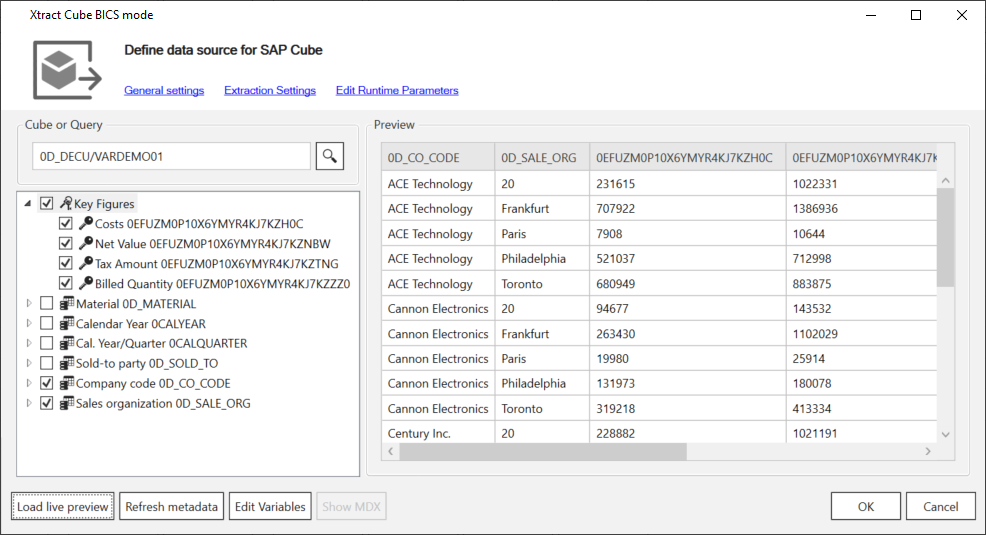
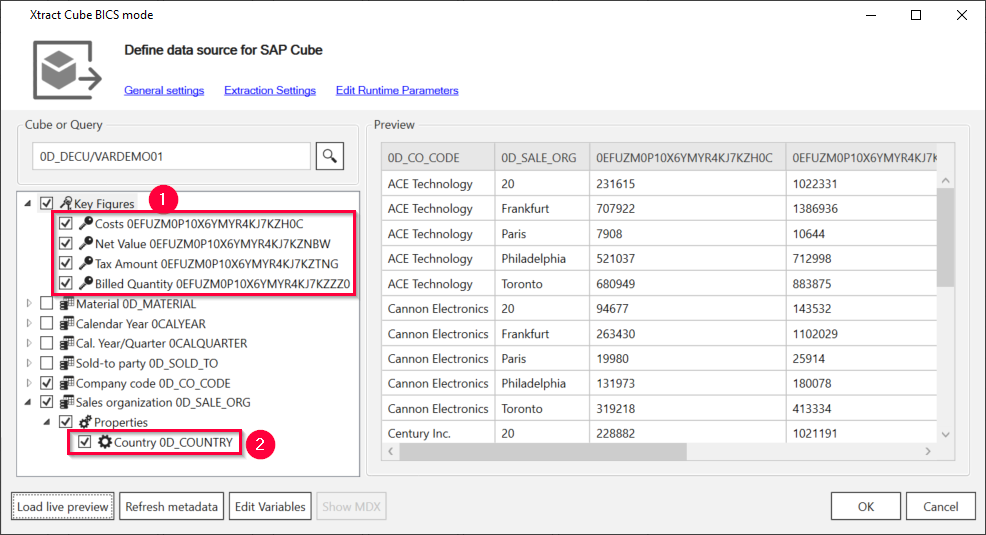
Define BW Cube Extraction

Changed region(s): [[0.0304, 0.329, 0.3651, 0.5682], [0.0304, 0.7178, 0.3043, 0.8673]]

diff --git a/_includes/_content/de/bw-infocubes-und-bex-queries/eine-bw-cube-quelle-definieren.md b/_includes/_content/de/bw-infocubes-und-bex-queries/eine-bw-cube-quelle-definieren.md
@@ -1,34 +1,53 @@
-Die Cube Datenquelle wurde entwickelt, um Daten aus SAP BW InfoCubes oder Queries (auch bekannt als BEx-Queries) abzuziehen.<br>
-Nach der Anlage einer BW Cube-Datenquelle erscheint der Dialog leer.
+Der folgende Abschnitt beschreibt die Anwendung der BAPI Komponente.<br>
 
-![BWCube-Extraction-01](/img/content/BWCube-Extraction-01.png){:class="img-responsive"}
+Die Komponente BW Cube kann verwendet werden, um Daten aus BW InfoProvidern (z.B. Cubes) direkt oder aus BW Queries zu extrahieren. Die BW Queries können in diesem Fall auf allen möglichen InfoProvidern basieren. <br>
+Ein üblicher Ansatz für die Extraktion besteht darin, eine Abfrage zu erstellen, die Ihren Geschäftsanforderungen entspricht.
 
-Um ihn mit Leben zu füllen, klicken Sie bitte auf den Fernglas-Knopf, um einen Cube oder eine Query zu suchen.
+![Bw-Cube-Data-Source](/img/content/Bw-Cube-Data-Source.png){:class="img-responsive"}
 
-Sie können mit Wildcards (also * ) entweder in den verfügbaren InfoCubes oder in den verfügbaren QueryCubes suchen. Sobald Sie den richtigen Cube gefunden haben, markieren Sie ihn und bestätigen Sie mit *OK*.
+### Nach BW Cube oder Query suchen
+
+1. Im Hauptfenster der Komponente klicken Sie auf den **[Search]** Button (Lupensymbol). Das Fenster “Cube or Query Lookup” wird geöffnet.
+![Look-Up-Cube](/img/content/Look-Up-Cube.png){:class="img-responsive"}
+2. Geben Sie im Feld **Name** (1) den Namen des Query oder des BW Cubes / InfoProviders ein. Die Verwendung von Wildcards (*) wird unterstützt. 
+3. Definieren Sie den **Extractor** und **Type** des Objekts (2).
+4. Klicken Sie auf **[Search]** (Lupensymbol) (3) und wählen Sie das Objekt aus der Liste (4) aus.
+5. Klicken Sie auf **[OK]** (5) zum Bestätigen.
+
+{: .box-warning }
+**Warning! Invalid action**<br>
+Beachten Sie, dass für jede Query, die in dieser Liste erscheinen soll, das Feld *Externen Zugriff auf diese Query zulassen* im BEx Query Designer oder im BW Modeling Tool angehakt sein muss. 
+Mehr Details finden Sie im Knowledgebase-Artikel [Allow external access to BW Queries](https://kb.theobald-software.com/general/allow-external-access-to-bw-queries)..
+ 
+### Auswählen von Messwerten ( Key Figures), Abmessungen und Eigenschaften
+Wenn ein Objekt ausgewählt ist, wird im Hauptfenster der Komponente auf der linken Seite eine Baumstruktur angezeigt. Die Baumstruktur stellt die Metadaten der Query (oder des InfoProviders) dar. <br>
+![Cube-Details](/img/content/XU-Tableau-BExQuery.png){:class="img-responsive"}
+Das erste Verzeichnis enthält alle Messwerte (Kennzahlen) (1). Die folgenden Verzeichnisse entsprechen den Dimensionen und enthalten oft zusätzliche Dimensionseigenschaften (2). <br>
+
+1. Wählen Sie die Kennzahlen, Dimensionen und Eigenschaften für eine Extraktion.
+2. Klicken Sie innerhalb des Kennzahlenverzeichnisses auf den Pfeil, um die verfügbaren Einheiten zu öffnen. Wählen Sie die Einheiten aus, falls erforderlich.
+3. Klicken Sie auf **[Load live preview]** um die Ausgabe mit Daten aus dem BW anzuzeigen. Wenn eine Einheit ausgewählt ist (z.B. Währung), wird das entsprechende Feld in der Echtzeitvorschau angezeigt.
 
 {: .box-note }
-**Hinweis:** Beachten Sie, dass für jede Query, die in dieser Liste erscheinen soll, das Feld *Externen Zugriff  auf diese Query zulassen* im BEx Query Designer oder im BW Modeling Tool angehakt sein muss. Mehr Details finden Sie im Knowledgebase-Artikel [Allow external access to BW Queries](https://kb.theobald-software.com/general/allow-external-access-to-bw-queries).
+**Hinweis:** Für jede ausgewählte Dimension oder Eigenschaft wird im Ergebnis eine Kennzahl und eine Einheit angezeigt. 
 
-![Look-Up-Cube](/img/content/Look-Up-Cube.png){:class="img-responsive"}
+### Einstellen eines Dimensionsfilters 
+1. Klicken Sie mit der rechten Maustaste auf eine Dimension. Die Schaltfläche **[Edit Filter]** erscheint.
+![Query Filter](/img/content/cube-query-filter.png){:class="img-responsive"}
+2. Klicken Sie **[Edit Filter]**. Das Fenster "Member Filter" wird geöffnet. Sie können die *Einzelnen Werte (Single Values)* (linke Seite des Fensters) setzen und / oder *Wertebereiche (Value Ranges)* (rechte Seite des Fensters) definieren.
+![Query Filter Define](/img/content/xfa/xfa_cube-query-filter-def.png){:class="img-responsive"}
+3. Wählen Sie einen einzelnen Wert (3) oder klicken Sie auf **[Add]** (4) um Wertebereiche hinzuzufügen. 
+4. Definieren Sie die Werte für die Filterung. Dynamischer Parameter werden unterstützt, siehe [Laufzeitparameter](./edit-runtime-parameters). Löschen Sie ggf. die Filter (Mülltonnensymbol).
+5. Klicken Sie auf **[OK]** zum Bestätigen. Das Fenster "Member Filter" wird geschlossen.
 
-Nachdem ein Cube gewählt wurde, finden Sie auf der linken Seite hierarchisch angeordnet die Kennzahlen (Ordner Key Figures), die Dimensionen und deren Eigenschaften (jeweils im Unterordner Properties jeder Dimension). Um einzelne Parameter für die Extraktion zu wählen, ziehen Sie den gewünschten Knoten per Drag & Drop von der Baumanzeige in die Tabelle rechts. 
-
-Bitte beachten Sie, dass die jeweilige Dimension automatisch mit selektiert wird, auch wenn Sie nur eine einzelne Eigenschaft hinüberziehen.
-
-![Cube-Details](/img/content/XU-Tableau-BExQuery.png){:class="img-responsive"}
-
-Sobald sie die Definition der gewünschten Ergebnismenge abgeschlossen haben, können Sie die Ausgabe der Extraktion mit Hilfe des Run-Buttons im Browser testen.
-
-Um alle Eigenschaften einer Dimension oder alle Kennzahlen zu selektieren, klicken Sie mit der rechten Maustaste auf den entsprechenden Knoten und wählen Sie die Option *Select for Output*.
-
-Ein Preview im Browser liefert das folgende Ergebnis.
-
-![Cube-Browser-Output](/img/content/Cube-Browser-Output.png){:class="img-responsive"}
-
-Der interessierte Nutzer kann auch den Show MDX-Link im oberen Bereich anklicken. Dann wird das jeweilige, automatisch generierte MDX-Statement angezeigt. Dies dient aber nur zur Information.
+Wenn ein Filter definiert ist, erscheint ein Filtersymbol in der Metadatenstruktur.
 
 
-![Cube-Extraction-Mdx-Statement](/img/content/Cube-Extraction-Mdx-Statement.png){:class="img-responsive"}
+{: .box-note }
+**Hinweis:** BW-Queries haben oft definierte Variablen zum Erstellen von Filteroptionen. Um Variablen zu definieren, siehe [Query Variablen](./variablen).
+ 
 
-
+****
+#### Weiterführende Links
+- [Allow external access to BW Queries](https://kb.theobald-software.com/general/allow-external-access-to-bw-queries).
+- [Query Variablen](./variablen)

diff --git a/_includes/_content/en/bw-infocubes-and-bex-queries/bw-cube-extraction-define.md b/_includes/_content/en/bw-infocubes-and-bex-queries/bw-cube-extraction-define.md
@@ -1,33 +1,53 @@
-The Xtract BW Cube data source component was developed to extract data from SAP BW InfoCubes and QueryCubes (also known as BEx Queries).
 
-After the definition of a BW Cube data source the following screen pops up:
+The following section shows how to use the BW Cube Component. <br>
 
+The BW Cube component can be used to extract data from BW InfoProviders (e.g., Cubes) directly or from BW Queries. The BW Queries, in this case, can be based on all possible InfoProviders.
+A common approach for this the extraction is to build the query that meets the business requirements.
 ![Bw-Cube-Data-Source](/img/content/Bw-Cube-Data-Source.png){:class="img-responsive"}
 
-Click the binocular button to open up the search dialog as shown below.
+### Look Up a BW Cube or Query
 
-You can also use wildcards ( * ) to search for InfoCubes and QueryCubes. Select the cube you want to work with and click OK.
+1. In the main window of the component click the **[Search]** button (magnifying glass symbol). The window “Cube and Query Lookup” opens.
+![Look-Up-Cube](/img/content/Look-Up-Cube.png){:class="img-responsive"}
+2. In the field Name (1) enter a name of a Query or a BW Cube / InfoProvider. Use wildcards (*), if needed.
+3. Define the **Extractor** and **Type** of the object (2).
+4. Click **[Search]** (magnifying glass symbol) (3) and select the object of your choice from the displayed list (4).
+5. Click **[OK]** (5) to confirm.
 
 {: .box-warning }
 **Warning! Invalid action**<br>
  A BW Query must have the attribute *Allow External Access to this Query* switched on in the BEx Query Designer or the BW Modeling Tool to appear in the list.
+ For additional details see the knowledge base article [Allow external access to BW Queries](https://kb.theobald-software.com/general/allow-external-access-to-bw-queries)..
  
- For additional details see the knowledge base article [Allow external access to BW Queries](https://kb.theobald-software.com/general/allow-external-access-to-bw-queries).
-
-![Look-Up-Cube](/img/content/Look-Up-Cube.png){:class="img-responsive"}
-
-After having chosen a cube, you will find all dimensions, key figures and dimension properties on the left-hand side of the editor. These parameters are presented hierarchically in a tree view.
-
-To extract one or more of these cube elements, drag and drop them to the grid on the right-hand side. If you are choosing the property of a dimension that is not yet contained in the result set, the dimension will be added automatically as well.
-
+### Selecting Measure (Key Figures), Dimensions and Properties
+When an object is selected, in the main main window of the component, there is a tree structure at the left hand-side. 
+The tree structure represents the metadata of the Query (or InfoProvider). <br>
 ![Cube-Details](/img/content/XU-Tableau-BExQuery.png){:class="img-responsive"}
+The first directory contains all the measures (key figures) (1). 
+The following directories correspond to dimensions and often contain additional dimension properties (2). <br>
 
-If at least one measure has been selected, you can see the extraction output in the browser after clicking the *Run* button.
+1. Select key figures, dimensions, and properties for the extraction.
+2. Within the key figures directory, click the arrow to open the available units. Select a unit, if needed.
+3. Click **[Load live preview]** to display the output with data from BW. If a unit is selected (e.g., currency) the corresponding field is displayed in the preview.
 
-To select all the properties of a dimension or all key figures, right-click on the corrrespondent node and select the option *Select for Output*.
+{: .box-note }
+**Note:** For every selected dimension or property, a key figure and a unit is displayed in the result. 
 
-![Cube-Browser-Output](/img/content/Cube-Browser-Output.png){:class="img-responsive"}
+### Setting a Dimension Filter 
+1. Right-click a dimension. The button **[Edit Filter]** pops-up.
+![Query Filter](/img/content/cube-query-filter.png){:class="img-responsive"}
+2. Click **[Edit Filter]**. The window "Member Filter" opens. You can set the *Single Values* (left hand-side) and / or define the *Value Ranges* (right hand-side).
+![Query Filter Define](/img/content/xfa/xfa_cube-query-filter-def.png){:class="img-responsive"}
+3. Select a single value (3) or  click **[Add]** (4) to add value ranges.
+4. Define the values for filtering. Dynamic parameters are supported, see [Runtime Parameters](./edit-runtime-parameters). Delete the filters (dustbin symbol), if needed.
+5. Click **[OK]** to confirm. The "Member Filter" window closes.
 
-If you are interested in the MDX statement that is generated in the background, please click the *Show MDX* link at the top of the editor.
+When filters are applied, a filter symbol appears in the metadata structure.
 
-![Cube-Extraction-Mdx-Statement](/img/content/Cube-Extraction-Mdx-Statement.png){:class="img-responsive"}
+{: .box-note }
+**Note:** BW queries often have defined variables to create filter options. To edit variables, see [Query Variables](./variables).
+ 
+*****
+#### Related Links
+- [Allow external access to BW Queries](https://kb.theobald-software.com/general/allow-external-access-to-bw-queries).
+- [Query Variables](./variables)

diff --git a/content/_en/xtract-for-alteryx/bw-cube/using-bw-cube-component.md b/content/_en/xtract-for-alteryx/bw-cube/using-bw-cube-component.md
@@ -15,21 +15,21 @@ A common approach for this the extraction is to build the query that meets the b
 ### To Search for a BW Cube or Query
 1. In the main window of the component navigate to subsection **Cube or Query** and click **Search** (magnifying glass symbol). The window “Cube or Query Lookup” opens.
 ![Cube Query search](/img/content/xfa/xfa_cube-query-look.png){:class="img-responsive"}
-2. In the field **Name** (1) enter a name of a Query or a BW Cube / InfoProvider using wildcards (*), if needed. 
+2. In the field **Name** (1) enter a name of a Query or a BW Cube / InfoProvider. Use wildcards (*), if needed. 
 3. Define the type of the searched object in the field **Type** (2).
 4. Click **Search** (magnifying glass symbol)(3).
 5. Select (4) the object from the list and click **[OK]** (5) to confirm.
 
 ### Selecting Measure (Key Figures), Dimensions and Properties
-When an object is selected, in the main main window of the component, there is a tree structure at the left hand-side. The tree structure represents the metadata of the query (or InfoProvider). <br>
+When an object is selected, in the main main window of the component, there is a tree structure at the left hand-side. The tree structure represents the metadata of the Query (or InfoProvider). <br>
 ![Query Structure](/img/content/xfa/xfa_cube-query-select.png){:class="img-responsive"}
 The first directory contains all the measures (key figures) (1). The following directories correspond to dimensions and often contain additional dimension properties (2). <br>
-1. Select the key figures, dimensions, and properties for an extraction.
+1. Select key figures, dimensions, and properties for the extraction.
 2. Within the key figures directory, click the arrow to open the available units. Select a unit, if needed.
 3. Click **[Load live preview]** to display the output with data from BW. If a unit is selected (e.g., currency) the corresponding field is displayed in the preview.
 
 {: .box-note }
-**Note:** for every selected dimension or property, a key figure and a unit is displayed in the result. 
+**Note:** For every selected dimension or property, a key figure and a unit is displayed in the result. 
 
 ### Setting a Dimension Filter 
 1. Right-click a dimension. The button **[Edit Filter]** pops-up.

diff --git a/_includes/_content/de/bw-infocubes-und-bex-queries/infocube-extraktionseinstellungen.md b/_includes/_content/de/bw-infocubes-und-bex-queries/infocube-extraktionseinstellungen.md
@@ -19,7 +19,7 @@ Wenn der Wert auf 0 gesetzt wird, wird die komplette Ergebnismenge abgerufen.
 **Row Limit** kann verwendet werden, um einen Test mit einer kleinen Datenmenge durchzuführen, indem Sie z.B. 1000 (nicht 0) als Zeilenlimit eintragen.
 
 **Use Formatted Values**<br>
-Definiert, dass die Werte der Kennzahlen so ausgegeben werden, wie im Query-Designer definiert (z.B. Skalierungsfaktor und Dezimalstellen).
+Wenn diese Option aktiv ist, werden die Werte der Kennzahlen so ausgegeben, wie im Query-Designer definiert (z.B. Skalierungsfaktor und Dezimalstellen).
 
 ### Automatic Slicing Dimension
 
@@ -32,8 +32,5 @@ Automatisches Slicing bedeutet, dass für jeden Einzelwert der gewählten Slicin
 ### Legacy settings
 
 **Use Description for Column (obsolete)**<br>
-Definiert, dass der Name der Pipeline-Elemente aus der Beschreibung ergibt und nicht aus deren technischen Namen.<br>
-Diese Eigenschaft ist obsolete. Nutzen Sie dazu die Eigenschaft Column Name Style in den Destination Settings.
-
-
+Wenn diese Option aktiv ist, wird der die Beschreibung und nicht der technische Namen eines Pipeline-Elements als Spaltenname verwendet.<br>
 

diff --git a/content/_de/xtract-universal/bw-infocubes-und-bex-queries.md b/content/_de/xtract-universal/bw-infocubes-und-bex-queries.md
@@ -11,7 +11,8 @@ weight: 50
 lang: de_DE
 old_url: /Xtract-Universal-DE/default.aspx?pageid=bw-infocubes-und-bex-queries
 ---
-Der folgende Abschnitt beschreibt die Anwendung der  Xtract Universal BW Cube Komponente. Kenntnisse über die Grundlagen von Xtract Universal werden zum Verstehen der folgenden Inhalte vorausgesetzt.
+Der folgende Abschnitt beschreibt die Anwendung der  Xtract Universal BW Cube Komponente. Die Cube Datenquelle wurde entwickelt, um Daten aus SAP BW InfoCubes oder Queries (auch bekannt als BEx-Queries) abzuziehen.<br>
+Kenntnisse über die Grundlagen von Xtract Universal werden zum Verstehen der folgenden Inhalte vorausgesetzt.
 
 {: .box-tip }
 **Tipp:** Grundlagen zum Produkt sind im Abschnitt [Erste Schritte mit Xtract Unviersal](./erste-schritte) beschrieben.

diff --git a/content/_en/xtract-universal/bw-infocubes-and-bex-queries.md b/content/_en/xtract-universal/bw-infocubes-and-bex-queries.md
@@ -12,7 +12,9 @@ lang: en_GB
 old_url: /Xtract-Universal-EN/default.aspx?pageid=bw-infocubes-and-bex-queries
 ---
 
-The following section describes the functions of the BW Cube Component of Xtract Universal. <br>
+The following section describes the functions of the BW Cube Component of Xtract Universal. 
+The Xtract BW Cube data source component was developed to extract data from SAP BW InfoCubes and QueryCubes (also known as BEx Queries). <br>
+
 Basic Xtract Universal the knowledge is required to understand the following sections. <br>
 
 {: .box-tip }

diff --git a/_includes/_content/en/bw-infocubes-and-bex-queries/bw-cube-extraction-settings.md b/_includes/_content/en/bw-infocubes-and-bex-queries/bw-cube-extraction-settings.md
@@ -34,4 +34,3 @@ Automatic slicing means that a loop is executed for each single value of the cho
 
 **Description for Columns** <br>
 If this option is active, the key figure's description will be used for the column name, instead of the technical name. 
-This setting is obsolete. Use the setting **Column Name Style** in the Destination Settings.
